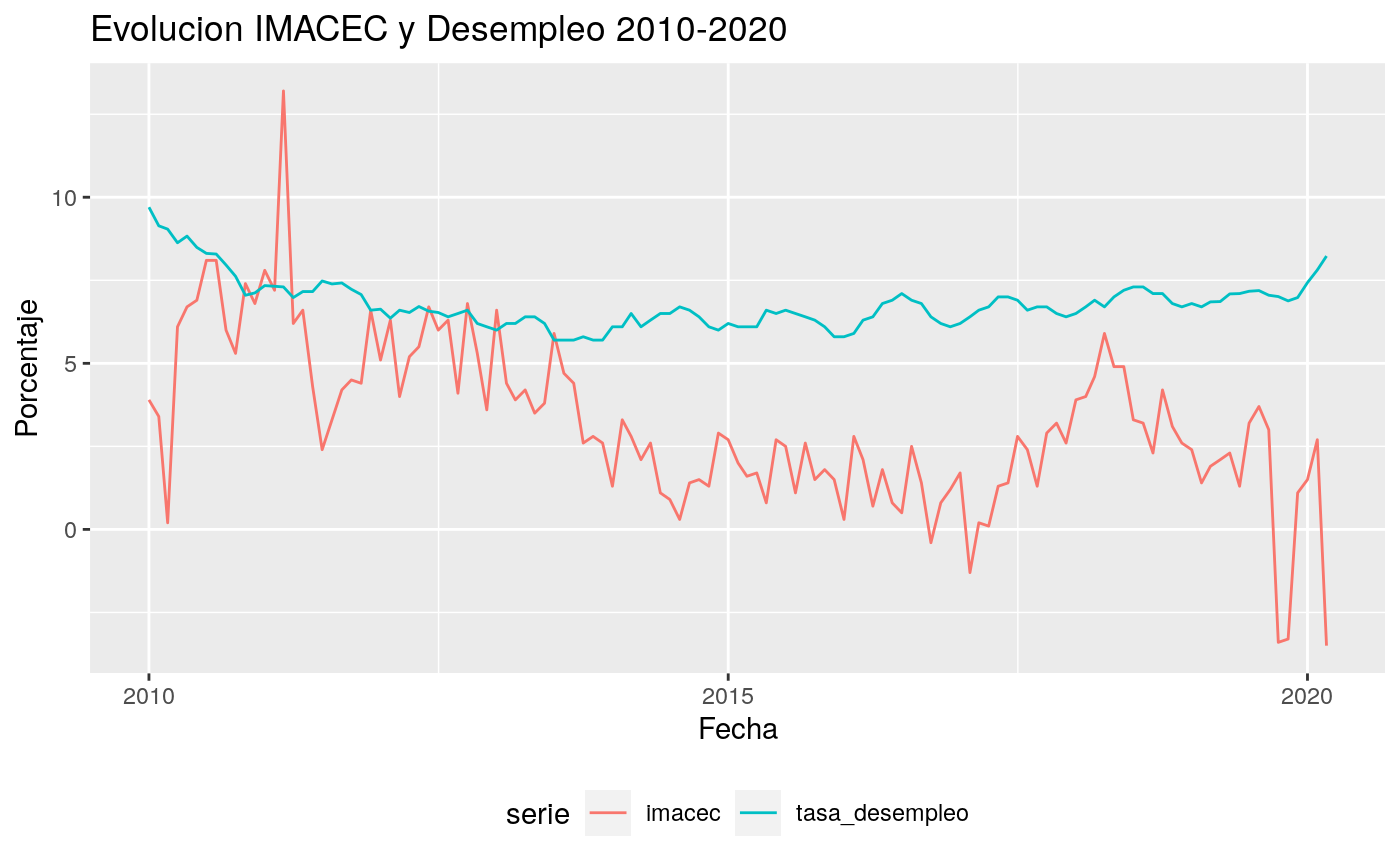
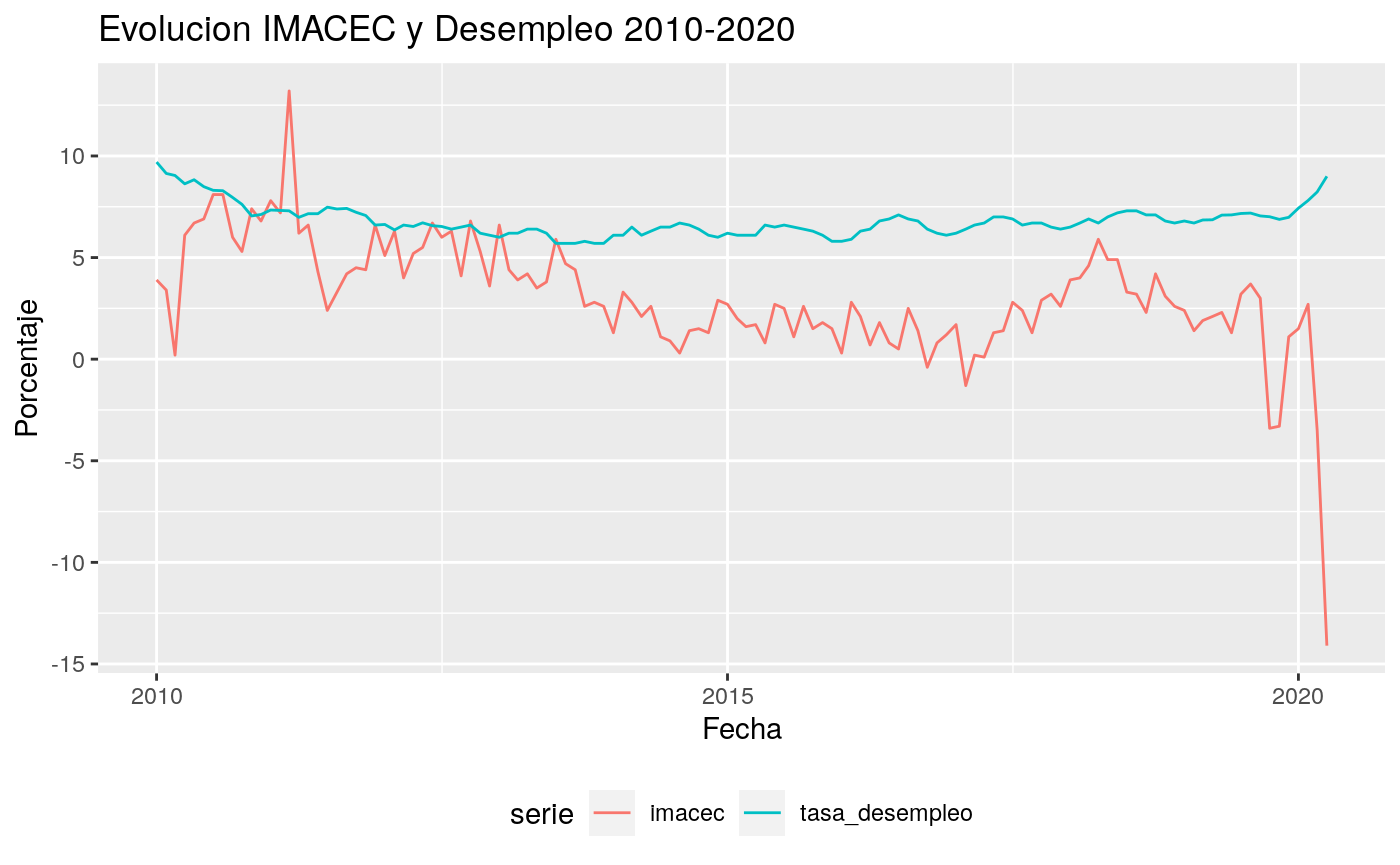
links a CRAN

diff --git a/docs/articles/mindicador.html b/docs/articles/mindicador.html
@@ -123,21 +123,21 @@
 <span class="co">#&gt;   4:         imacec 2010-09-01  6.00</span>
 <span class="co">#&gt;   5:         imacec 2010-08-01  8.10</span>
 <span class="co">#&gt;  ---                                </span>
-<span class="co">#&gt; 243:         imacec 2020-02-01  2.70</span>
-<span class="co">#&gt; 244:         imacec 2020-01-01  1.50</span>
-<span class="co">#&gt; 245: tasa_desempleo 2020-03-01  8.23</span>
-<span class="co">#&gt; 246: tasa_desempleo 2020-02-01  7.81</span>
-<span class="co">#&gt; 247: tasa_desempleo 2020-01-01  7.43</span></pre></body></html></div>
+<span class="co">#&gt; 245:         imacec 2020-01-01  1.50</span>
+<span class="co">#&gt; 246: tasa_desempleo 2020-04-01  9.00</span>
+<span class="co">#&gt; 247: tasa_desempleo 2020-03-01  8.23</span>
+<span class="co">#&gt; 248: tasa_desempleo 2020-02-01  7.81</span>
+<span class="co">#&gt; 249: tasa_desempleo 2020-01-01  7.43</span></pre></body></html></div>
 </div>
 <div id="graficar-las-series" class="section level2">
 <h2 class="hasAnchor">
 <a href="#graficar-las-series" class="anchor"></a>Graficar las series</h2>
 <p>Simplemente para explorar visualmente lo obtenido:</p>
 <div class="sourceCode" id="cb2"><html><body><pre class="r"><span class="co"># las dos series estan en la misma escala (porcentaje) asi que los puedo dejar en un mismo grafico</span>
-<span class="fu"><a href="https://rdrr.io/pkg/ggplot2/man/ggplot.html">ggplot</a></span>(<span class="kw">data</span> <span class="kw">=</span> <span class="no">datos</span>, <span class="fu"><a href="https://rdrr.io/pkg/ggplot2/man/aes.html">aes</a></span>(<span class="kw">x</span> <span class="kw">=</span> <span class="no">fecha</span>, <span class="kw">y</span> <span class="kw">=</span> <span class="no">valor</span>, <span class="kw">color</span> <span class="kw">=</span> <span class="no">serie</span>)) +
-  <span class="fu"><a href="https://rdrr.io/pkg/ggplot2/man/geom_path.html">geom_line</a></span>() +
-  <span class="fu"><a href="https://rdrr.io/pkg/ggplot2/man/theme.html">theme</a></span>(<span class="kw">legend.position</span> <span class="kw">=</span> <span class="st">"bottom"</span>) +
-  <span class="fu"><a href="https://rdrr.io/pkg/ggplot2/man/labs.html">labs</a></span>(<span class="kw">title</span> <span class="kw">=</span> <span class="st">"Evolucion IMACEC y Desempleo 2010-2020"</span>, <span class="kw">x</span> <span class="kw">=</span> <span class="st">"Fecha"</span>, <span class="kw">y</span> <span class="kw">=</span> <span class="st">"Porcentaje"</span>)</pre></body></html></div>
+<span class="fu"><a href="https://ggplot2.tidyverse.org/reference/ggplot.html">ggplot</a></span>(<span class="kw">data</span> <span class="kw">=</span> <span class="no">datos</span>, <span class="fu"><a href="https://ggplot2.tidyverse.org/reference/aes.html">aes</a></span>(<span class="kw">x</span> <span class="kw">=</span> <span class="no">fecha</span>, <span class="kw">y</span> <span class="kw">=</span> <span class="no">valor</span>, <span class="kw">color</span> <span class="kw">=</span> <span class="no">serie</span>)) +
+  <span class="fu"><a href="https://ggplot2.tidyverse.org/reference/geom_path.html">geom_line</a></span>() +
+  <span class="fu"><a href="https://ggplot2.tidyverse.org/reference/theme.html">theme</a></span>(<span class="kw">legend.position</span> <span class="kw">=</span> <span class="st">"bottom"</span>) +
+  <span class="fu"><a href="https://ggplot2.tidyverse.org/reference/labs.html">labs</a></span>(<span class="kw">title</span> <span class="kw">=</span> <span class="st">"Evolucion IMACEC y Desempleo 2010-2020"</span>, <span class="kw">x</span> <span class="kw">=</span> <span class="st">"Fecha"</span>, <span class="kw">y</span> <span class="kw">=</span> <span class="st">"Porcentaje"</span>)</pre></body></html></div>
 <p><img src="mindicador_files/figure-html/unnamed-chunk-3-1.png" width="700"></p>
 </div>
 <div id="exportar-a-excel" class="section level2">

diff --git a/docs/index.html b/docs/index.html
@@ -86,14 +86,16 @@
 <div id="instalacion" class="section level2">
 <h2 class="hasAnchor">
 <a href="#instalacion" class="anchor"></a>Instalación</h2>
+<p>Desde CRAN:</p>
+<div class="sourceCode" id="cb1"><pre class="r"><span class="fu"><a href="https://rdrr.io/r/utils/install.packages.html">install.packages</a></span>(<span class="st">"mindicador"</span>)</pre></div>
 <p>Desde GitHub:</p>
-<div class="sourceCode" id="cb1"><pre class="r"><span class="kw pkg">devtools</span><span class="kw ns">::</span><span class="fu"><a href="https://devtools.r-lib.org//reference/remote-reexports.html">install_github</a></span>(<span class="st">"pachamaltese/mindicador"</span>)</pre></div>
+<div class="sourceCode" id="cb2"><pre class="r"><span class="kw pkg">devtools</span><span class="kw ns">::</span><span class="fu"><a href="https://devtools.r-lib.org//reference/remote-reexports.html">install_github</a></span>(<span class="st">"pachamaltese/mindicador"</span>)</pre></div>
 </div>
 <div id="uso" class="section level2">
 <h2 class="hasAnchor">
 <a href="#uso" class="anchor"></a>Uso</h2>
 <p>Todas las series se importan de igual modo:</p>
-<div class="sourceCode" id="cb2"><pre class="r"><span class="co"># series disponibles</span>
+<div class="sourceCode" id="cb3"><pre class="r"><span class="co"># series disponibles</span>
 <span class="no">mindicador_indicadores</span>
 
 <span class="co"># valores de la UF anio 2020</span>
@@ -115,6 +117,8 @@
     <div class="links">
 <h2>Links</h2>
 <ul class="list-unstyled">
+<li>Download from CRAN at <br><a href="https://cloud.r-project.org/package=mindicador">https://cloud.r-project.org/package=mindicador</a>
+</li>
 <li>Browse source code at <br><a href="https://github.com/pachamaltese/mindicador/">https://github.com/pachamaltese/mindicador/</a>
 </li>
 <li>Report a bug at <br><a href="https://github.com/pachamaltese/mindicador/issues">https://github.com/pachamaltese/mindicador/issues</a>
@@ -147,7 +151,8 @@
 <ul class="list-unstyled">
 <li><a href="https://github.com/pachamaltese/mindicador/actions"><img src="https://github.com/pachamaltese/mindicador/workflows/R-CMD-check/badge.svg" alt="R build status"></a></li>
 <li><a href="https://codecov.io/gh/pachamaltese/mindicador?branch=master"><img src="https://codecov.io/gh/pachamaltese/mindicador/branch/master/graph/badge.svg" alt="Codecov test coverage"></a></li>
-<li><a href="https://www.repostatus.org/#wip"><img src="https://www.repostatus.org/badges/latest/wip.svg" alt="Project Status: WIP – Initial development is in progress, but there has not yet been a stable, usable release suitable for the public."></a></li>
+<li><a href="https://www.repostatus.org/#active"><img src="https://www.repostatus.org/badges/latest/active.svg" alt="Project Status: Active – The project has reached a stable, usable state and is being actively developed."></a></li>
+<li><a href="https://CRAN.R-project.org/package=mindicador"><img src="https://www.r-pkg.org/badges/version/mindicador" alt="CRAN status"></a></li>
 </ul>
 </div>
 </div>

diff --git a/docs/news/index.html b/docs/news/index.html
@@ -119,7 +119,8 @@
 
     <div id="mindicador-0-1-5" class="section level1">
 <h1 class="page-header" data-toc-text="0.1.5">
-<a href="#mindicador-0-1-5" class="anchor"></a>mindicador 0.1.5</h1>
+<a href="#mindicador-0-1-5" class="anchor"></a>mindicador 0.1.5<small> 2020-06-02 </small>
+</h1>
 <p>Changes requested by Dr. Jelena Saf and Dr. Uwe Ligges from CRAN</p>
 <ul>
 <li>Uses TRUE/FALSE instead of T/F in arguments</li>
@@ -132,14 +133,16 @@
 </div>
     <div id="mindicador-0-1" class="section level1">
 <h1 class="page-header" data-toc-text="0.1">
-<a href="#mindicador-0-1" class="anchor"></a>mindicador 0.1</h1>
+<a href="#mindicador-0-1" class="anchor"></a>mindicador 0.1<small> Unreleased </small>
+</h1>
 <ul>
 <li>Improved documentation.</li>
 </ul>
 </div>
     <div id="mindicador-0-0-0-9000" class="section level1">
 <h1 class="page-header" data-toc-text="0.0.0.9000">
-<a href="#mindicador-0-0-0-9000" class="anchor"></a>mindicador 0.0.0.9000</h1>
+<a href="#mindicador-0-0-0-9000" class="anchor"></a>mindicador 0.0.0.9000<small> Unreleased </small>
+</h1>
 <ul>
 <li>Added a <code>NEWS.md</code> file to track changes to the package.</li>
 </ul>

diff --git a/README.md b/README.md
@@ -3,12 +3,19 @@
 <!-- badges: start -->
 [![R build status](https://github.com/pachamaltese/mindicador/workflows/R-CMD-check/badge.svg)](https://github.com/pachamaltese/mindicador/actions)
 [![Codecov test coverage](https://codecov.io/gh/pachamaltese/mindicador/branch/master/graph/badge.svg)](https://codecov.io/gh/pachamaltese/mindicador?branch=master)
-[![Project Status: WIP – Initial development is in progress, but there has not yet been a stable, usable release suitable for the public.](https://www.repostatus.org/badges/latest/wip.svg)](https://www.repostatus.org/#wip)
+[![Project Status: Active – The project has reached a stable, usable state and is being actively developed.](https://www.repostatus.org/badges/latest/active.svg)](https://www.repostatus.org/#active)
+[![CRAN status](https://www.r-pkg.org/badges/version/mindicador)](https://CRAN.R-project.org/package=mindicador)
 <!-- badges: end -->
 
 El objetivo de `mindicador::` es facilitar el uso de los datos de mindicador.cl el cual es un proyecto de independiente de este software y que fue desarrollado por [Christopher Riquelme](https://twitter.com/lee_om).
 
 ## Instalación
+
+Desde CRAN:
+
+```r
+install.packages("mindicador")
+```
 
 Desde GitHub:
 
